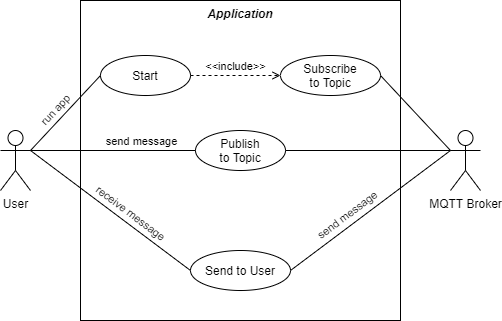
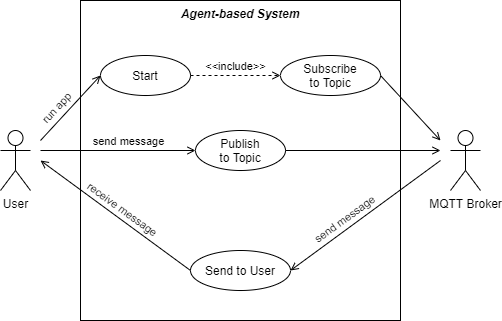
update behavioral analysis

diff --git a/README.md b/README.md
@@ -1,6 +1,9 @@
 # mas-mqtt-user
 
 ## REQUIREMENTS
+
+(MUST)
+
 - When _started_, the agent-based system _subscribes_ to an MQTT topic
 
 - The system receives messages from the user and _publishes_ them to an MQTT topic
@@ -15,13 +18,12 @@
 
 - __MQTT Broker:__ A server that adopts the MQTT protocol to receive messages from _publishers_ and route them to the appropriate _subscribers_
 
-### Use Cases
+### Use-case Diagram
+<img src="./figures/use-case-diagram.png" width="600">
+
+### Use-case Descriptions
 - __Start:__ The User runs the System
 
 - __Subscribe to Topic:__ The System subscribes to an MQTT topic
 - __Publish to Topic:__ The User sends a message and the System publishes it to an MQTT topic
 - __Send to User:__ Whenever a message is published to the subscribed topic, the System receives that message from the MQTT Broker and sends it to the User
-
-
-### Use-case Diagram
-<img src="./figures/use-case-diagram.png" width="600">
